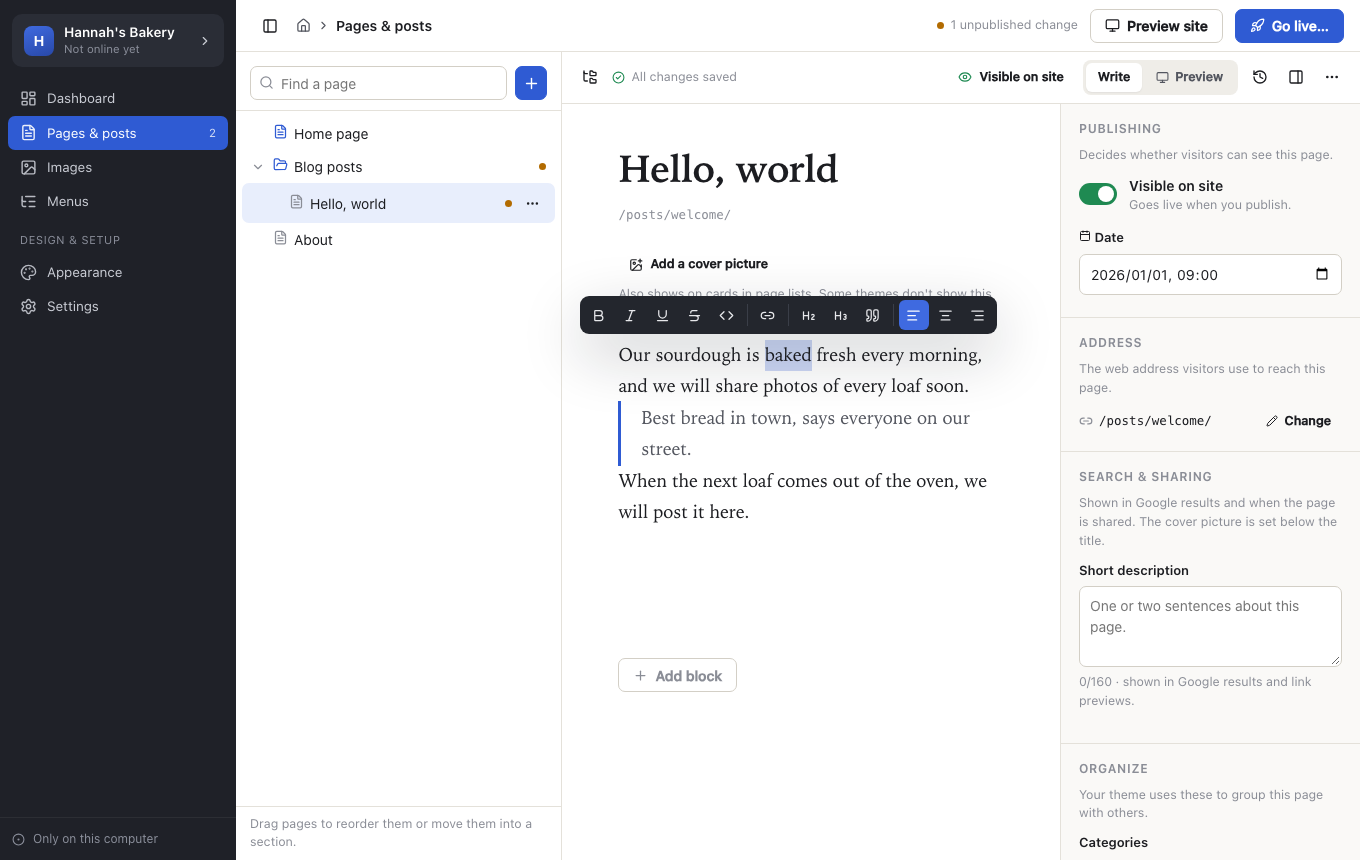
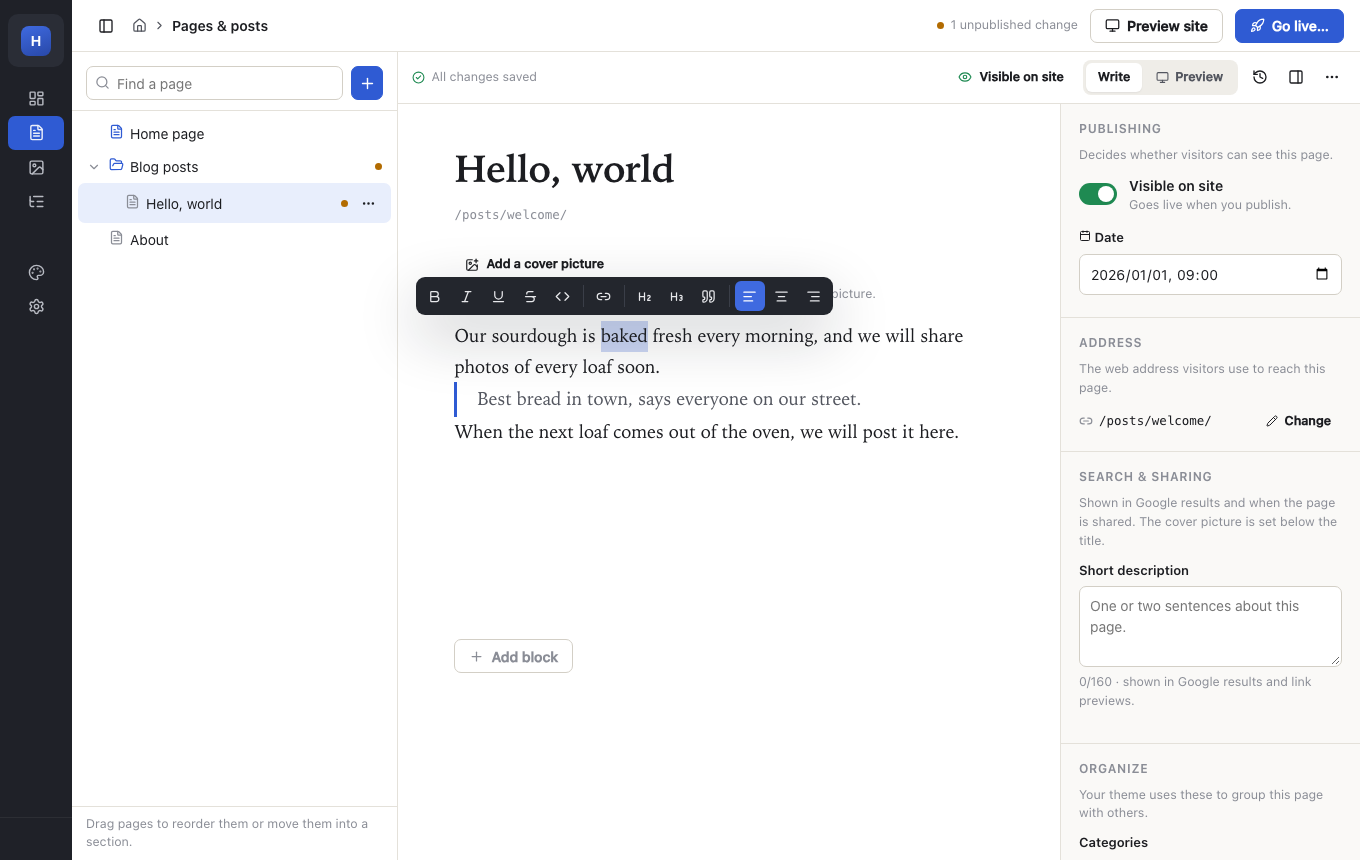
fix: Get the screenshots running again
A nixpkgs update moved devenv to a newer Chromium than our
playwright-core pin, so the screenshot script couldn't start a browser.
We pin the matching playwright-core and warn on entering the shell when
the two drift apart again.

The script also moves the mouse off the sidebar, which now stays open
over the page list while hovered.

diff --git a/frontend/screenshots/shoot.ts b/frontend/screenshots/shoot.ts
@@ -30,6 +30,8 @@ async function openSite(remote = false): Promise<Page> {
 
 async function openPost(page: Page) {
   await page.getByRole("button", { name: "Pages & posts" }).click();
+  // The sidebar stays open over the page list while the mouse rests on it
+  await page.mouse.move(viewport.width, viewport.height);
   await page.getByRole("treeitem", { name: "Hello, world" }).click();
   await page.locator(".ProseMirror").waitFor();
 }
